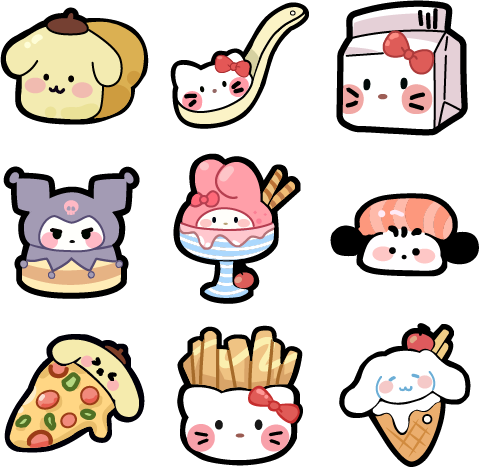
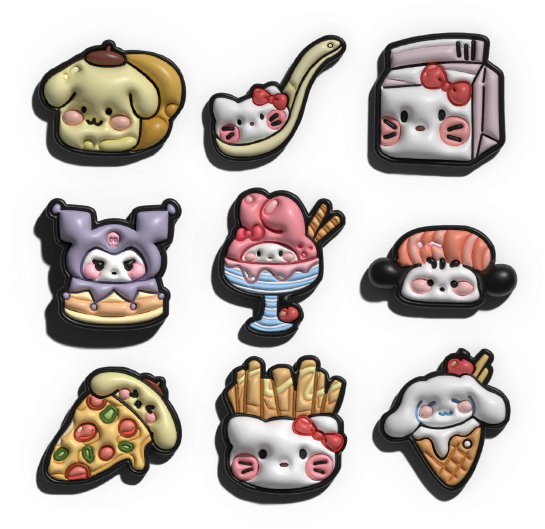
포트폴리오

diff --git a/index.html b/index.html
@@ -158,7 +158,7 @@
                     <div class="etc-bg bg3"><a href="#"><img src="./images/etc3.png" alt="sanrio-icons"></a></div>
                     <div class="txt">
                         <p><a href="#">아이콘 카피 제작</a></p>
-                        <b>일러스트로 기존 디자인을 카피해 제작하였습니다.</b>
+                        <b>일러스트룰 활용해 기존 도안 카피 디자인 후 3D 제작하였습니다.</b>
                     </div>
                 </li>
                 <li>

diff --git a/css/index.css b/css/index.css
@@ -450,6 +450,7 @@ body::-webkit-scrollber-button {display:none;}
     border:1px solid rgb(187, 171, 140);
     border-radius:10px;
     background-color:rgba(187, 171, 140, 0.3);
+    overflow:hidden;
 }
 .etc > section > ul > li > .txt {
     width:250px;
